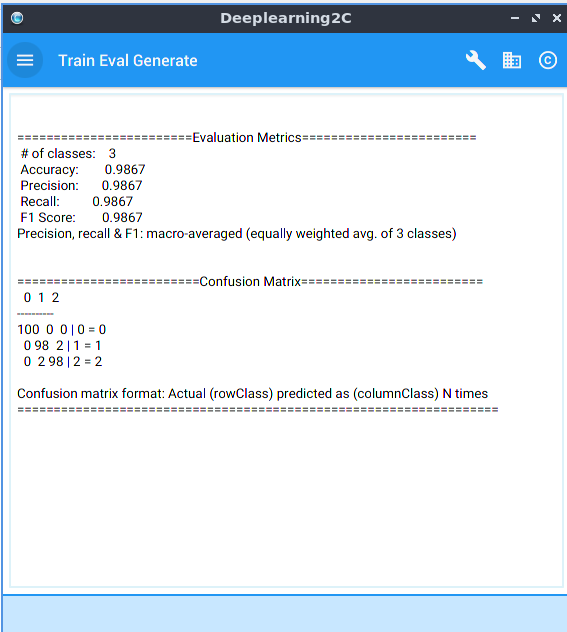
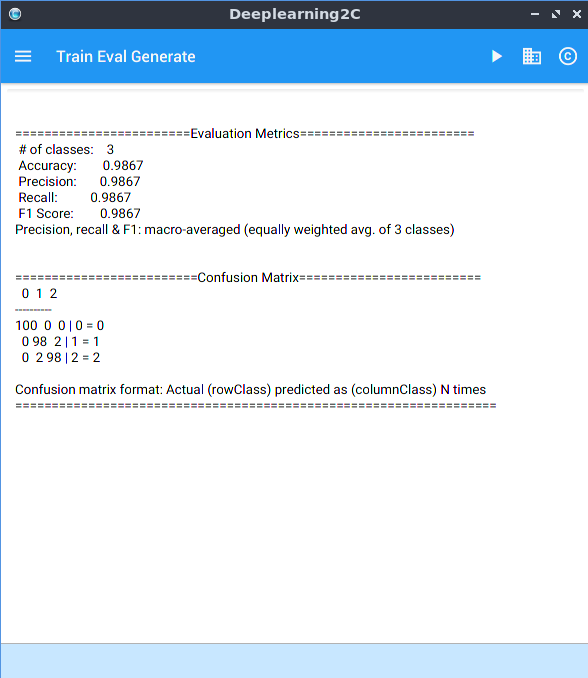
Final release 1.3

Changed region(s): [[0.0, 0.0, 1.0, 1.0]]

diff --git a/ReadMe.md b/ReadMe.md
@@ -64,6 +64,9 @@ Now I evaluate my model.
 
 ![a](https://raw.githubusercontent.com/DanielMartensson/Deeplearning2C/master/pictures/Eval.png)
 
+And at last I generate C-code.
+![a](https://raw.githubusercontent.com/DanielMartensson/Deeplearning2C/master/pictures/C-Generation.png)
+
 Applied onto a Samsung Galaxy S3 from 2012 with Android 4.4.4. I have also tested it onto a Samsung Galaxy S5 Neo from 2015 with Android 6.0.1. Both working to start. But the S3 phone have issues for pop-up dialogs. The application shut down when a pop-up appear, but the Samsung S5 Neo works to train a neural network with and generate C-code. 
 
 ![a](https://raw.githubusercontent.com/DanielMartensson/Deeplearning2C/master/pictures/Samsung%20S3.jpeg)
